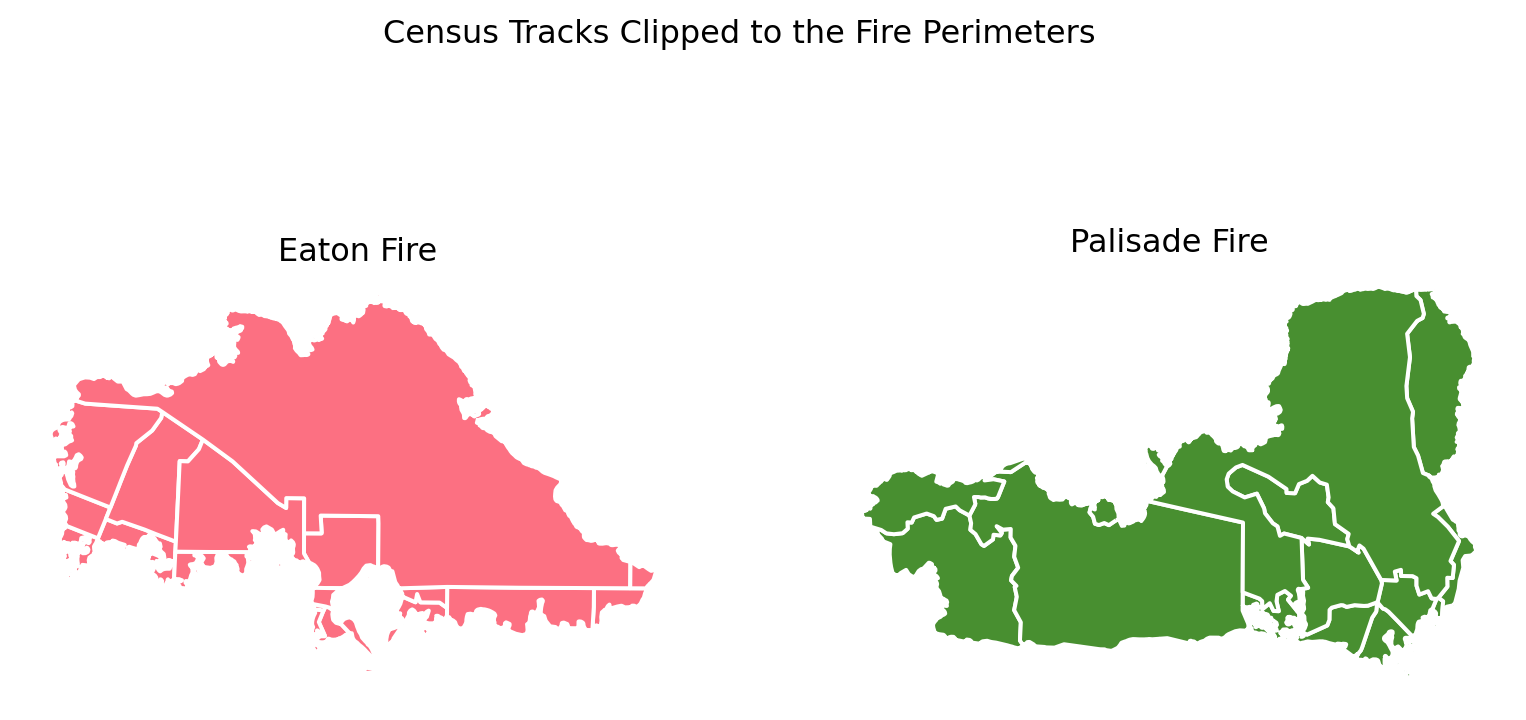
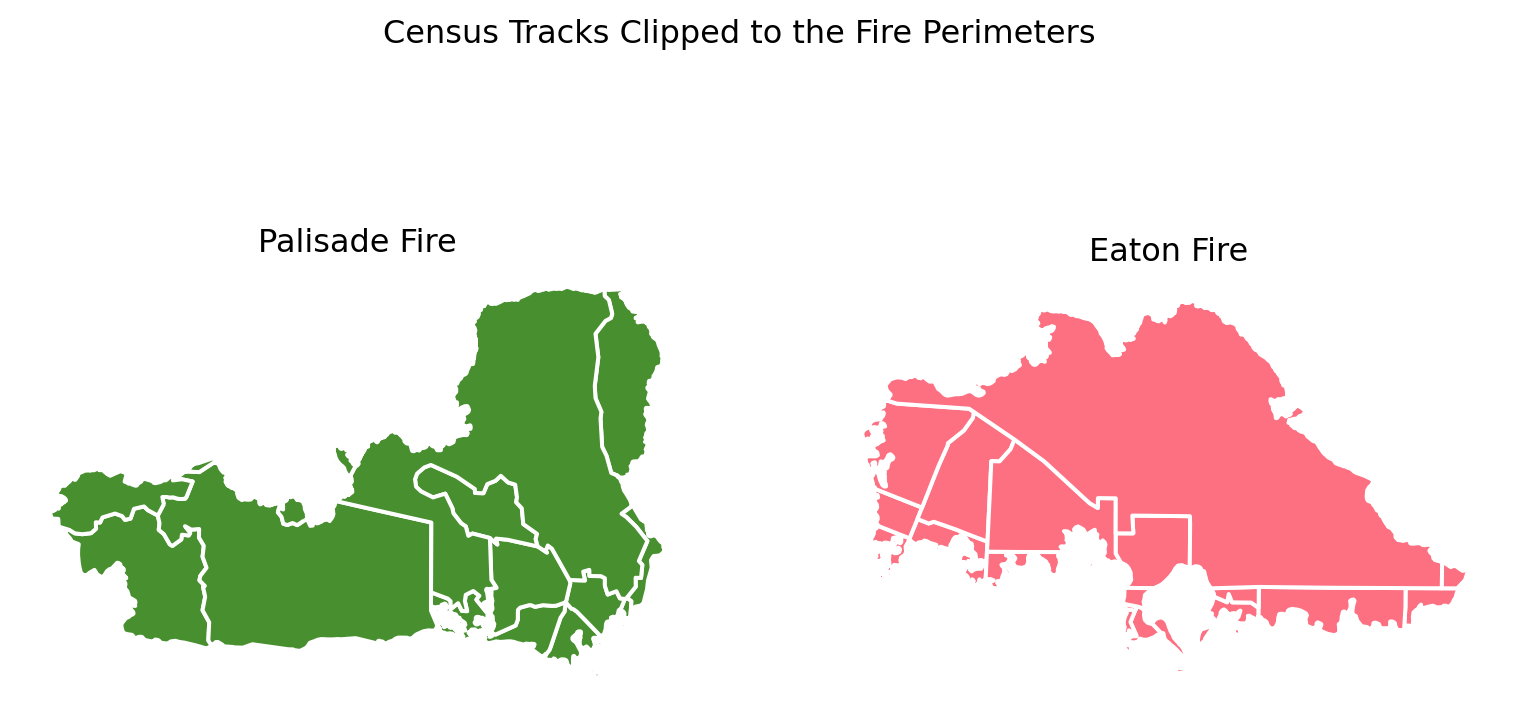
Built site for gh-pages

diff --git a/Posts/analyzing_LA_fire_scars/index.html b/Posts/analyzing_LA_fire_scars/index.html
@@ -266,7 +266,7 @@ pre > code.sourceCode > span > a:first-child::before { text-decoration: underlin
 <section id="inital-steps" class="level2">
 <h2 class="anchored" data-anchor-id="inital-steps">Inital Steps</h2>
 <p>First, we must <em>load all necessary libraries</em>!</p>
-<div id="1e715215" class="cell" data-execution_count="1">
+<div id="db068f6b" class="cell" data-execution_count="1">
 <details class="code-fold">
 <summary>Code</summary>
 <div class="code-copy-outer-scaffold"><div class="sourceCode cell-code" id="cb1"><pre class="sourceCode python code-with-copy"><code class="sourceCode python"><span id="cb1-1"><a href="#cb1-1" aria-hidden="true" tabindex="-1"></a><span class="co"># Used to import data easier</span></span>
@@ -289,7 +289,7 @@ pre > code.sourceCode > span > a:first-child::before { text-decoration: underlin
 </div>
 <p>The important libraries are the <code>geopandas</code> and <code>xarrary</code>. The <code>geopandas</code> package is useful when dealing with vector data which is point, lines, and polygons. The fire perimeters and EJI dataframes are polygons. Therefore, we will be using <code>geopandas</code> for the EJI and borders. Whereas, the <code>xarrary</code> package is useful when working with raster data, such as the Landsat data.</p>
 <p>Secondly, we must <em>load in</em> the borders, EJI, and Landsat data by using the <code>geopandas</code>, <code>xarrary</code>, and <code>os</code> packages.</p>
-<div id="26f7cccc" class="cell" data-execution_count="2">
+<div id="aea05b19" class="cell" data-execution_count="2">
 <details class="code-fold">
 <summary>Code</summary>
 <div class="code-copy-outer-scaffold"><div class="sourceCode cell-code" id="cb2"><pre class="sourceCode python code-with-copy"><code class="sourceCode python"><span id="cb2-1"><a href="#cb2-1" aria-hidden="true" tabindex="-1"></a><span class="co"># Importing fire border data </span></span>
@@ -307,7 +307,7 @@ pre > code.sourceCode > span > a:first-child::before { text-decoration: underlin
 <span id="cb2-13"><a href="#cb2-13" aria-hidden="true" tabindex="-1"></a>landsat <span class="op">=</span> xr.open_dataset(os.path.join(<span class="st">'data'</span>, <span class="st">'landsat8-2025-02-23-palisades-eaton.nc'</span>))</span></code></pre></div><button title="Copy to Clipboard" class="code-copy-button"><i class="bi"></i></button></div>
 </details>
 </div>
-<div id="75557f76" class="cell" data-execution_count="3">
+<div id="a4ceee07" class="cell" data-execution_count="3">
 <details class="code-fold">
 <summary>Code</summary>
 <div class="code-copy-outer-scaffold"><div class="sourceCode cell-code" id="cb3"><pre class="sourceCode python code-with-copy"><code class="sourceCode python"><span id="cb3-1"><a href="#cb3-1" aria-hidden="true" tabindex="-1"></a><span class="co"># Image of Fires </span></span>
@@ -335,7 +335,7 @@ pre > code.sourceCode > span > a:first-child::before { text-decoration: underlin
 <p>Once the data is loaded, we need to examine each dataset.</p>
 <p>The function <code>.info</code> provides good information of the dataframes’ column names and data types. With this function, we notice there are 5 columns in the fire border data set, with the final column being the vector geometry. We can examine the geometry of each fire with <code>.plot</code>.</p>
 <p>Finally, it is <em>always</em> important to know the geospatial data’s <strong>coordinate reference systems</strong> (CRS). The CRS defines how the geospatial data is located and plotted. There are 2 CRS types: geographic (how the data is plotted on the 3D globe) and projected (how the data is plotted on a 2D map). It is important to use the correct CRS for your data and intended goal. Additionally, when merging or plotting geospatial data together, the datasets must be in the same CRS.</p>
-<div id="a96a29b5" class="cell" data-execution_count="4">
+<div id="962c643f" class="cell" data-execution_count="4">
 <div class="code-copy-outer-scaffold"><div class="sourceCode cell-code" id="cb4"><pre class="sourceCode python code-with-copy"><code class="sourceCode python"><span id="cb4-1"><a href="#cb4-1" aria-hidden="true" tabindex="-1"></a><span class="co"># Border data exploration </span></span>
 <span id="cb4-2"><a href="#cb4-2" aria-hidden="true" tabindex="-1"></a><span class="co"># .info: Column names, NA counts, and types</span></span>
 <span id="cb4-3"><a href="#cb4-3" aria-hidden="true" tabindex="-1"></a><span class="bu">print</span>(eaton.info()) </span>
@@ -393,7 +393,7 @@ The CRS for the palisades fire perimeter is EPSG:3857, and is the CRS projected?
 </div>
 </div>
 </div>
-<div id="4144964d" class="cell" data-execution_count="5">
+<div id="1d6748e7" class="cell" data-execution_count="5">
 <div class="code-copy-outer-scaffold"><div class="sourceCode cell-code" id="cb6"><pre class="sourceCode python code-with-copy"><code class="sourceCode python"><span id="cb6-1"><a href="#cb6-1" aria-hidden="true" tabindex="-1"></a><span class="co"># EJI exploration </span></span>
 <span id="cb6-2"><a href="#cb6-2" aria-hidden="true" tabindex="-1"></a><span class="co"># .info: Column names, NA counts, and types</span></span>
 <span id="cb6-3"><a href="#cb6-3" aria-hidden="true" tabindex="-1"></a><span class="bu">print</span>(cali.info()) </span>
@@ -427,7 +427,7 @@ The CRS for the Califoria's EJI data is PROJCS["USA_Contiguous_Albers_Equal_Area
 <li><p><em>Attributes:</em> The units and other describing factors (like sample ID)</p></li>
 </ol>
 <p>We can understand the Landsat’s variables, dimension, and CRS with <code>.var</code>, <code>.coord</code>, <code>dims</code>, <code>.rio.crs</code>.</p>
-<div id="39ae7840" class="cell" data-execution_count="6">
+<div id="2743f037" class="cell" data-execution_count="6">
 <div class="code-copy-outer-scaffold"><div class="sourceCode cell-code" id="cb8"><pre class="sourceCode python code-with-copy"><code class="sourceCode python"><span id="cb8-1"><a href="#cb8-1" aria-hidden="true" tabindex="-1"></a><span class="co"># Preliminary Raster Landsat data exploration  </span></span>
 <span id="cb8-2"><a href="#cb8-2" aria-hidden="true" tabindex="-1"></a><span class="bu">print</span>(<span class="ss">f"THE COORDINATES ARE: </span><span class="sc">{</span>landsat<span class="sc">.</span>coords<span class="sc">}</span><span class="ss">"</span>)</span>
 <span id="cb8-3"><a href="#cb8-3" aria-hidden="true" tabindex="-1"></a><span class="bu">print</span>(<span class="ss">f"THE VARIABLES ARE: </span><span class="sc">{</span>landsat<span class="sc">.</span>var<span class="sc">}</span><span class="ss">"</span>)</span>
@@ -463,7 +463,7 @@ THE CRS IS: None</code></pre>
 <h3 class="anchored" data-anchor-id="a-restoring-geospatial-information">a) Restoring Geospatial Information</h3>
 <p><em>PROBLEM!</em> Notice, the Landsat’s CRS reads ‘None’!</p>
 <p>This is because the raster’s CRS is located in another attribute called ‘crs_wkt’. Therefore, we must retrieve the CRS by using <code>.spatial_ref</code> (which refers to the Spatial Reference System). Then we will use <code>.write_crs</code> to recover the spatial properties of the geospatial dataset.</p>
-<div id="8436abda" class="cell" data-execution_count="7">
+<div id="1f28ed38" class="cell" data-execution_count="7">
 <div class="code-copy-outer-scaffold"><div class="sourceCode cell-code" id="cb10"><pre class="sourceCode python code-with-copy"><code class="sourceCode python"><span id="cb10-1"><a href="#cb10-1" aria-hidden="true" tabindex="-1"></a><span class="co"># Find the CRS within the 'crs_wkt' attribute </span></span>
 <span id="cb10-2"><a href="#cb10-2" aria-hidden="true" tabindex="-1"></a>landsat_crs <span class="op">=</span> landsat.spatial_ref.crs_wkt</span>
 <span id="cb10-3"><a href="#cb10-3" aria-hidden="true" tabindex="-1"></a></span>
@@ -480,7 +480,7 @@ THE CRS IS: None</code></pre>
 <section id="b-coordindate-refereces-systems" class="level3">
 <h3 class="anchored" data-anchor-id="b-coordindate-refereces-systems">b) Coordindate Refereces Systems</h3>
 <p>As stated before, when plotting or merging geospatial dataframes together, it is imparative they have the same CRS. Therefore, we need to check if all datasets’ CRSs match. If the CRS are not the same, we need to transform them.</p>
-<div id="7c01f9a7" class="cell" data-execution_count="8">
+<div id="a4991faa" class="cell" data-execution_count="8">
 <details class="code-fold">
 <summary>Code</summary>
 <div class="code-copy-outer-scaffold"><div class="sourceCode cell-code" id="cb12"><pre class="sourceCode python code-with-copy"><code class="sourceCode python"><span id="cb12-1"><a href="#cb12-1" aria-hidden="true" tabindex="-1"></a><span class="co"># Check is CRSs match  </span></span>
@@ -497,13 +497,13 @@ Does the Cali EJI and the Landsat raster CRSs match? False</code></pre>
 </div>
 </div>
 <p><em>PROBLEM!</em> The perimeter, Landsat, and EJI CRSs do NOT match. Thus, we must transform them to match using <code>to_crs</code>.</p>
-<div id="e1ff4d40" class="cell" data-execution_count="9">
+<div id="36c6d8fc" class="cell" data-execution_count="9">
 <div class="code-copy-outer-scaffold"><div class="sourceCode cell-code" id="cb14"><pre class="sourceCode python code-with-copy"><code class="sourceCode python"><span id="cb14-1"><a href="#cb14-1" aria-hidden="true" tabindex="-1"></a><span class="co"># Transform all data sets to match the Landsat's CRS   </span></span>
 <span id="cb14-2"><a href="#cb14-2" aria-hidden="true" tabindex="-1"></a>eaton.to_crs(landsat.rio.crs, inplace <span class="op">=</span> <span class="va">True</span>)</span>
 <span id="cb14-3"><a href="#cb14-3" aria-hidden="true" tabindex="-1"></a>pal.to_crs(landsat.rio.crs, inplace <span class="op">=</span> <span class="va">True</span>)</span>
 <span id="cb14-4"><a href="#cb14-4" aria-hidden="true" tabindex="-1"></a>cali.to_crs(landsat.rio.crs, inplace <span class="op">=</span> <span class="va">True</span>)</span></code></pre></div><button title="Copy to Clipboard" class="code-copy-button"><i class="bi"></i></button></div>
 </div>
-<div id="83d04be7" class="cell" data-execution_count="10">
+<div id="a8b8744e" class="cell" data-execution_count="10">
 <details class="code-fold">
 <summary>Code</summary>
 <div class="code-copy-outer-scaffold"><div class="sourceCode cell-code" id="cb15"><pre class="sourceCode python code-with-copy"><code class="sourceCode python"><span id="cb15-1"><a href="#cb15-1" aria-hidden="true" tabindex="-1"></a><span class="co"># Check to see if CRS are fixed   </span></span>
@@ -525,7 +525,7 @@ Does the Cali EJI and the Landsat raster CRSs match? True</code></pre>
 <p>True color imagery will be used to visualize the Los Angeles landscape!</p>
 <p>When mapping, there are 3 color channels: red, green, blue (RGB). If the red, green, and blue Landsat wavelengths are assigned to their proper channels, this is <strong>TRUE COLOR IMAGERY</strong>. True color imagery, in simple terms, is when the red wavelength is assigned to red channel, green wavelength is assigned to the green channel, and blue wavelength is assigned to the blue channel.</p>
 <p>To create the true-color imagery, we will select the ‘red’, ‘green’, and ‘blue’ bands (in that order) into the Landsat’s [red-channel, green-channel, and blue-channel]. Then, we convert the dataset (with multiple bands) into a single DataArray with <code>to_array()</code>. There are a couple spots with ‘NA’ values and extreme measurements (from cloud cover and/or shadows). The NAs and outliar values will cause the visualizion to fail, not showing the intended image. Filling the NA values with 0s, using <code>.fillna(0)</code>, ensures the RGB image will plot cleanly. The function <code>.plot.imshow()</code> is xarray’s plotting function. The addition of <code>robust = True</code> elimiates extreme outlairs, and thus scales the color range to be more representative of the data.</p>
-<div id="d3e5773c" class="cell" data-execution_count="11">
+<div id="63339120" class="cell" data-execution_count="11">
 <details class="code-fold">
 <summary>Code</summary>
 <div class="code-copy-outer-scaffold"><div class="sourceCode cell-code" id="cb17"><pre class="sourceCode python code-with-copy"><code class="sourceCode python"><span id="cb17-1"><a href="#cb17-1" aria-hidden="true" tabindex="-1"></a><span class="co"># Plot Landsat data with the red, green, blue wavelengths</span></span>
@@ -547,7 +547,7 @@ Does the Cali EJI and the Landsat raster CRSs match? True</code></pre>
 <h2 class="anchored" data-anchor-id="false-color-imagery">False Color Imagery</h2>
 <p>Conversely, <strong>FALSE COLOR IMAGERY</strong> is when the RGB channels are NOT assigned to the red, green, blue wavelengths. False color imagery uses the unique reflectance and absorbance properties of different wavelengths to enhance or isolate specific features that may be difficult to see in true color imagery.</p>
 <p>For instance, to examine the fire scars, we will assign the short-wave infrared wavelengths (‘swir22’) to the red channel, near-infrared wavelengths (‘nir08’) to the green channel, and red wavelength to the blue channel. Near infrared (NIR) wavelengths reflects healthy vegetation. Lower NIR measurements can show unhealthy plant-life conditions, such as drought stress or deforestation. Assigning the NIR to the green channel emphasizes the vegetation health. Hence, super green areas in this figure represent healthy plant-life. Short wave infrared (SWIR) wavelengths reflects fire and recently burned areas. By assigning SWIR to the red channel, the fire markings are highlighted with a red color, especially in contrast to the NIR (green channel). Thus, false color imagery is used to emphasizes the burn damages from the fires in comparison to the neighboring healthy vegetation.</p>
-<div id="e10cdb1a" class="cell" data-execution_count="12">
+<div id="782714fc" class="cell" data-execution_count="12">
 <details class="code-fold">
 <summary>Code</summary>
 <div class="code-copy-outer-scaffold"><div class="sourceCode cell-code" id="cb18"><pre class="sourceCode python code-with-copy"><code class="sourceCode python"><span id="cb18-1"><a href="#cb18-1" aria-hidden="true" tabindex="-1"></a><span class="co"># Plotting Landsat data with the short-wave infrared (swir22), near-infrared, and red wavelengths </span></span>
@@ -568,7 +568,7 @@ Does the Cali EJI and the Landsat raster CRSs match? True</code></pre>
 <section id="all-together" class="level3">
 <h3 class="anchored" data-anchor-id="all-together">All together!</h3>
 <p>To finalize the plot, we will outline the fire scares shown in the false color imagery map with the perimeter dataframes. Additionally, adding legends, text, a title, and a scalebar are important factors in creating a professional map.</p>
-<div id="bf77db75" class="cell" data-execution_count="13">
+<div id="98db4be6" class="cell" data-execution_count="13">
 <details class="code-fold">
 <summary>Code</summary>
 <div class="code-copy-outer-scaffold"><div class="sourceCode cell-code" id="cb19"><pre class="sourceCode python code-with-copy"><code class="sourceCode python"><span id="cb19-1"><a href="#cb19-1" aria-hidden="true" tabindex="-1"></a><span class="co"># Create an empty plot </span></span>
@@ -637,7 +637,7 @@ Does the Cali EJI and the Landsat raster CRSs match? True</code></pre>
 <section id="prelimary-exploration" class="level3">
 <h3 class="anchored" data-anchor-id="prelimary-exploration">Prelimary Exploration</h3>
 <p>To examine California’s census tracks (especially the ones that intersect with the fire perimeters), we will create a map! In order to do this, we will select and filter for all GEOIDs that cut across the Eaton and Paslisade Fires, and highlight these when plotting California’s EJI data.</p>
-<div id="b578d7ab" class="cell" data-execution_count="14">
+<div id="573ed143" class="cell" data-execution_count="14">
 <details class="code-fold">
 <summary>Code</summary>
 <div class="code-copy-outer-scaffold"><div class="sourceCode cell-code" id="cb20"><pre class="sourceCode python code-with-copy"><code class="sourceCode python"><span id="cb20-1"><a href="#cb20-1" aria-hidden="true" tabindex="-1"></a><span class="co"># Select GEOID within the fires perimeters </span></span>
@@ -679,29 +679,31 @@ Does the Cali EJI and the Landsat raster CRSs match? True</code></pre>
 </div>
 </div>
 <p>The figure above shows the intersecting census tracks. To get better view of these ‘blobs’, we can use <code>.sjoin()</code> to select for all CTs that traverse the fires.</p>
-<div id="e4344b42" class="cell" data-execution_count="15">
+<div id="6e45951a" class="cell" data-execution_count="15">
 <div class="code-copy-outer-scaffold"><div class="sourceCode cell-code" id="cb21"><pre class="sourceCode python code-with-copy"><code class="sourceCode python"><span id="cb21-1"><a href="#cb21-1" aria-hidden="true" tabindex="-1"></a><span class="co"># JOIN EJI census tracks with border data </span></span>
 <span id="cb21-2"><a href="#cb21-2" aria-hidden="true" tabindex="-1"></a>eaton_join <span class="op">=</span> gpd.sjoin(cali, eaton)</span>
 <span id="cb21-3"><a href="#cb21-3" aria-hidden="true" tabindex="-1"></a>pal_join <span class="op">=</span> gpd.sjoin(cali, pal)</span></code></pre></div><button title="Copy to Clipboard" class="code-copy-button"><i class="bi"></i></button></div>
 </div>
-<div id="4eeaf22b" class="cell" data-execution_count="16">
+<div id="c63ac47a" class="cell" data-execution_count="16">
 <details class="code-fold">
 <summary>Code</summary>
 <div class="code-copy-outer-scaffold"><div class="sourceCode cell-code" id="cb22"><pre class="sourceCode python code-with-copy"><code class="sourceCode python"><span id="cb22-1"><a href="#cb22-1" aria-hidden="true" tabindex="-1"></a><span class="co"># Plot joined df </span></span>
 <span id="cb22-2"><a href="#cb22-2" aria-hidden="true" tabindex="-1"></a>fig, (ax1, ax2) <span class="op">=</span> plt.subplots(<span class="dv">1</span>, <span class="dv">2</span>, figsize<span class="op">=</span>(<span class="dv">10</span>, <span class="dv">5</span>))</span>
 <span id="cb22-3"><a href="#cb22-3" aria-hidden="true" tabindex="-1"></a></span>
-<span id="cb22-4"><a href="#cb22-4" aria-hidden="true" tabindex="-1"></a>eaton_join.plot(ax <span class="op">=</span> ax1, facecolor<span class="op">=</span> <span class="st">'#fc7082'</span>, edgecolor<span class="op">=</span><span class="st">'white'</span>, linewidth<span class="op">=</span><span class="fl">1.5</span>)</span>
-<span id="cb22-5"><a href="#cb22-5" aria-hidden="true" tabindex="-1"></a>pal_join.plot(ax <span class="op">=</span> ax2, facecolor<span class="op">=</span> <span class="st">'#488f30'</span>, edgecolor<span class="op">=</span><span class="st">'white'</span>, linewidth<span class="op">=</span><span class="fl">1.5</span>)</span>
+<span id="cb22-4"><a href="#cb22-4" aria-hidden="true" tabindex="-1"></a>pal_join.plot(ax <span class="op">=</span> ax1, facecolor<span class="op">=</span> <span class="st">'#488f30'</span>, edgecolor<span class="op">=</span><span class="st">'white'</span>, linewidth<span class="op">=</span><span class="fl">1.5</span>)</span>
+<span id="cb22-5"><a href="#cb22-5" aria-hidden="true" tabindex="-1"></a>eaton_join.plot(ax <span class="op">=</span> ax2, facecolor<span class="op">=</span> <span class="st">'#fc7082'</span>, edgecolor<span class="op">=</span><span class="st">'white'</span>, linewidth<span class="op">=</span><span class="fl">1.5</span>)</span>
 <span id="cb22-6"><a href="#cb22-6" aria-hidden="true" tabindex="-1"></a></span>
-<span id="cb22-7"><a href="#cb22-7" aria-hidden="true" tabindex="-1"></a>fig.suptitle(<span class="st">'Census Tracks Intersecting the Fire Perimeters'</span>)</span>
-<span id="cb22-8"><a href="#cb22-8" aria-hidden="true" tabindex="-1"></a>ax1.set_title(<span class="st">"Eaton Fire"</span>)</span>
-<span id="cb22-9"><a href="#cb22-9" aria-hidden="true" tabindex="-1"></a>ax2.set_title(<span class="st">"Palisade Fire"</span>)</span>
-<span id="cb22-10"><a href="#cb22-10" aria-hidden="true" tabindex="-1"></a></span>
+<span id="cb22-7"><a href="#cb22-7" aria-hidden="true" tabindex="-1"></a></span>
+<span id="cb22-8"><a href="#cb22-8" aria-hidden="true" tabindex="-1"></a>fig.suptitle(<span class="st">'Census Tracks Intersecting the Fire Perimeters'</span>)</span>
+<span id="cb22-9"><a href="#cb22-9" aria-hidden="true" tabindex="-1"></a>ax1.set_title(<span class="st">"Palisade Fire"</span>)</span>
+<span id="cb22-10"><a href="#cb22-10" aria-hidden="true" tabindex="-1"></a>ax2.set_title(<span class="st">"Eaton Fire"</span>)</span>
 <span id="cb22-11"><a href="#cb22-11" aria-hidden="true" tabindex="-1"></a></span>
-<span id="cb22-12"><a href="#cb22-12" aria-hidden="true" tabindex="-1"></a>ax1.axis(<span class="st">'off'</span>)</span>
-<span id="cb22-13"><a href="#cb22-13" aria-hidden="true" tabindex="-1"></a>ax2.axis(<span class="st">'off'</span>)</span>
-<span id="cb22-14"><a href="#cb22-14" aria-hidden="true" tabindex="-1"></a></span>
-<span id="cb22-15"><a href="#cb22-15" aria-hidden="true" tabindex="-1"></a>plt.show()</span></code></pre></div><button title="Copy to Clipboard" class="code-copy-button"><i class="bi"></i></button></div>
+<span id="cb22-12"><a href="#cb22-12" aria-hidden="true" tabindex="-1"></a></span>
+<span id="cb22-13"><a href="#cb22-13" aria-hidden="true" tabindex="-1"></a></span>
+<span id="cb22-14"><a href="#cb22-14" aria-hidden="true" tabindex="-1"></a>ax1.axis(<span class="st">'off'</span>)</span>
+<span id="cb22-15"><a href="#cb22-15" aria-hidden="true" tabindex="-1"></a>ax2.axis(<span class="st">'off'</span>)</span>
+<span id="cb22-16"><a href="#cb22-16" aria-hidden="true" tabindex="-1"></a></span>
+<span id="cb22-17"><a href="#cb22-17" aria-hidden="true" tabindex="-1"></a>plt.show()</span></code></pre></div><button title="Copy to Clipboard" class="code-copy-button"><i class="bi"></i></button></div>
 </details>
 <div class="cell-output cell-output-display">
 <div>
@@ -715,29 +717,30 @@ Does the Cali EJI and the Landsat raster CRSs match? True</code></pre>
 <section id="clip-census-tracks-with-fire-perimeters" class="level3">
 <h3 class="anchored" data-anchor-id="clip-census-tracks-with-fire-perimeters">Clip Census Tracks with Fire Perimeters</h3>
 <p>The <code>.clip()</code> function acts like a cookie cutter. We will use this function to ‘cookie-cutter’ out the exact fire perimeters from the census tracks.</p>
-<div id="fef9b5a6" class="cell" data-execution_count="17">
+<div id="810e4ebb" class="cell" data-execution_count="17">
 <div class="code-copy-outer-scaffold"><div class="sourceCode cell-code" id="cb23"><pre class="sourceCode python code-with-copy"><code class="sourceCode python"><span id="cb23-1"><a href="#cb23-1" aria-hidden="true" tabindex="-1"></a><span class="co"># CLIP EJI census tracks with border data </span></span>
 <span id="cb23-2"><a href="#cb23-2" aria-hidden="true" tabindex="-1"></a>eaton_clip <span class="op">=</span> gpd.clip(cali, eaton)</span>
 <span id="cb23-3"><a href="#cb23-3" aria-hidden="true" tabindex="-1"></a>pal_clip <span class="op">=</span> gpd.clip(cali, pal)</span></code></pre></div><button title="Copy to Clipboard" class="code-copy-button"><i class="bi"></i></button></div>
 </div>
-<div id="665f2fcf" class="cell" data-execution_count="18">
+<div id="df98ceb9" class="cell" data-execution_count="18">
 <details class="code-fold">
 <summary>Code</summary>
 <div class="code-copy-outer-scaffold"><div class="sourceCode cell-code" id="cb24"><pre class="sourceCode python code-with-copy"><code class="sourceCode python"><span id="cb24-1"><a href="#cb24-1" aria-hidden="true" tabindex="-1"></a><span class="co"># Plot clipped dfs </span></span>
 <span id="cb24-2"><a href="#cb24-2" aria-hidden="true" tabindex="-1"></a>fig, (ax1, ax2) <span class="op">=</span> plt.subplots(<span class="dv">1</span>, <span class="dv">2</span>, figsize<span class="op">=</span>(<span class="dv">10</span>, <span class="dv">5</span>))</span>
 <span id="cb24-3"><a href="#cb24-3" aria-hidden="true" tabindex="-1"></a></span>
-<span id="cb24-4"><a href="#cb24-4" aria-hidden="true" tabindex="-1"></a>eaton_clip.plot(ax <span class="op">=</span> ax1, facecolor<span class="op">=</span> <span class="st">'#fc7082'</span>, edgecolor<span class="op">=</span><span class="st">'white'</span>, linewidth<span class="op">=</span><span class="fl">1.5</span>)</span>
-<span id="cb24-5"><a href="#cb24-5" aria-hidden="true" tabindex="-1"></a>pal_clip.plot(ax <span class="op">=</span> ax2, facecolor<span class="op">=</span> <span class="st">'#488f30'</span>, edgecolor<span class="op">=</span><span class="st">'white'</span>, linewidth<span class="op">=</span><span class="fl">1.5</span>)</span>
+<span id="cb24-4"><a href="#cb24-4" aria-hidden="true" tabindex="-1"></a>pal_clip.plot(ax <span class="op">=</span> ax1, facecolor<span class="op">=</span> <span class="st">'#488f30'</span>, edgecolor<span class="op">=</span><span class="st">'white'</span>, linewidth<span class="op">=</span><span class="fl">1.5</span>)</span>
+<span id="cb24-5"><a href="#cb24-5" aria-hidden="true" tabindex="-1"></a>eaton_clip.plot(ax <span class="op">=</span> ax2, facecolor<span class="op">=</span> <span class="st">'#fc7082'</span>, edgecolor<span class="op">=</span><span class="st">'white'</span>, linewidth<span class="op">=</span><span class="fl">1.5</span>)</span>
 <span id="cb24-6"><a href="#cb24-6" aria-hidden="true" tabindex="-1"></a></span>
-<span id="cb24-7"><a href="#cb24-7" aria-hidden="true" tabindex="-1"></a>fig.suptitle(<span class="st">'Census Tracks Clipped to the Fire Perimeters'</span>)</span>
-<span id="cb24-8"><a href="#cb24-8" aria-hidden="true" tabindex="-1"></a>ax1.set_title(<span class="st">"Eaton Fire"</span>)</span>
-<span id="cb24-9"><a href="#cb24-9" aria-hidden="true" tabindex="-1"></a>ax2.set_title(<span class="st">"Palisade Fire"</span>)</span>
-<span id="cb24-10"><a href="#cb24-10" aria-hidden="true" tabindex="-1"></a></span>
+<span id="cb24-7"><a href="#cb24-7" aria-hidden="true" tabindex="-1"></a></span>
+<span id="cb24-8"><a href="#cb24-8" aria-hidden="true" tabindex="-1"></a>fig.suptitle(<span class="st">'Census Tracks Clipped to the Fire Perimeters'</span>)</span>
+<span id="cb24-9"><a href="#cb24-9" aria-hidden="true" tabindex="-1"></a>ax1.set_title(<span class="st">"Palisade Fire"</span>)</span>
+<span id="cb24-10"><a href="#cb24-10" aria-hidden="true" tabindex="-1"></a>ax2.set_title(<span class="st">"Eaton Fire"</span>)</span>
 <span id="cb24-11"><a href="#cb24-11" aria-hidden="true" tabindex="-1"></a></span>
-<span id="cb24-12"><a href="#cb24-12" aria-hidden="true" tabindex="-1"></a>ax1.axis(<span class="st">'off'</span>)</span>
-<span id="cb24-13"><a href="#cb24-13" aria-hidden="true" tabindex="-1"></a>ax2.axis(<span class="st">'off'</span>)</span>
-<span id="cb24-14"><a href="#cb24-14" aria-hidden="true" tabindex="-1"></a></span>
-<span id="cb24-15"><a href="#cb24-15" aria-hidden="true" tabindex="-1"></a>plt.show()</span></code></pre></div><button title="Copy to Clipboard" class="code-copy-button"><i class="bi"></i></button></div>
+<span id="cb24-12"><a href="#cb24-12" aria-hidden="true" tabindex="-1"></a></span>
+<span id="cb24-13"><a href="#cb24-13" aria-hidden="true" tabindex="-1"></a>ax1.axis(<span class="st">'off'</span>)</span>
+<span id="cb24-14"><a href="#cb24-14" aria-hidden="true" tabindex="-1"></a>ax2.axis(<span class="st">'off'</span>)</span>
+<span id="cb24-15"><a href="#cb24-15" aria-hidden="true" tabindex="-1"></a></span>
+<span id="cb24-16"><a href="#cb24-16" aria-hidden="true" tabindex="-1"></a>plt.show()</span></code></pre></div><button title="Copy to Clipboard" class="code-copy-button"><i class="bi"></i></button></div>
 </details>
 <div class="cell-output cell-output-display">
 <div>
@@ -751,7 +754,7 @@ Does the Cali EJI and the Landsat raster CRSs match? True</code></pre>
 <section id="plot" class="level3">
 <h3 class="anchored" data-anchor-id="plot">Plot</h3>
 <p>To study the affected community, we will use the clipped dataframes and display the census tracks’ ‘E_UNINSUR’ measurements.</p>
-<div id="137786e0" class="cell" data-execution_count="19">
+<div id="0c9e1ac5" class="cell" data-execution_count="19">
 <details class="code-fold">
 <summary>Code</summary>
 <div class="code-copy-outer-scaffold"><div class="sourceCode cell-code" id="cb25"><pre class="sourceCode python code-with-copy"><code class="sourceCode python"><span id="cb25-1"><a href="#cb25-1" aria-hidden="true" tabindex="-1"></a>fig, (ax1, ax2) <span class="op">=</span> plt.subplots(<span class="dv">1</span>, <span class="dv">2</span>, figsize<span class="op">=</span>(<span class="dv">10</span>, <span class="dv">5</span>))</span>
@@ -903,7 +906,7 @@ Scars.”</span> December 4, 2025. <a href="https://https//meganhessel.github.io
     }
       var localhostRegex = new RegExp(/^(?:http|https):\/\/localhost\:?[0-9]*\//);
       var mailtoRegex = new RegExp(/^mailto:/);
-        var filterRegex = new RegExp('/' + window.location.host + '/');
+        var filterRegex = new RegExp("https:\/\/meganhessel\.github\.io\/");
       var isInternal = (href) => {
           return filterRegex.test(href) || localhostRegex.test(href) || mailtoRegex.test(href);
       }

diff --git a/posts.html b/posts.html
@@ -276,7 +276,7 @@ Dec 4, 2025
 </div>
 </div></a>
 </div>
-<div class="g-col-1" data-index="2" data-categories="TUVEUyUyQ1B5dGhvbiUyQ2RhdGEtdml6" data-listing-date-sort="1764835200000" data-listing-file-modified-sort="1765351412150" data-listing-date-modified-sort="NaN" data-listing-reading-time-sort="14" data-listing-word-count-sort="2738">
+<div class="g-col-1" data-index="2" data-categories="TUVEUyUyQ1B5dGhvbiUyQ2RhdGEtdml6" data-listing-date-sort="1764835200000" data-listing-file-modified-sort="1765351879453" data-listing-date-modified-sort="NaN" data-listing-reading-time-sort="14" data-listing-word-count-sort="2738">
 <a href="./Posts/analyzing_LA_fire_scars/index.html" class="quarto-grid-link">
 <div class="quarto-grid-item card h-100 card-left">
 <p class="card-img-top">
@@ -385,7 +385,7 @@ Dec 4, 2025
     }
       var localhostRegex = new RegExp(/^(?:http|https):\/\/localhost\:?[0-9]*\//);
       var mailtoRegex = new RegExp(/^mailto:/);
-        var filterRegex = new RegExp('/' + window.location.host + '/');
+        var filterRegex = new RegExp("https:\/\/meganhessel\.github\.io\/");
       var isInternal = (href) => {
           return filterRegex.test(href) || localhostRegex.test(href) || mailtoRegex.test(href);
       }

diff --git a/Posts/hur_ian_flooding/index.html b/Posts/hur_ian_flooding/index.html
@@ -1222,7 +1222,7 @@ December 4, 2025. <a href="https://https//meganhessel.github.io/Posts/hur_ian_fl
     }
       var localhostRegex = new RegExp(/^(?:http|https):\/\/localhost\:?[0-9]*\//);
       var mailtoRegex = new RegExp(/^mailto:/);
-        var filterRegex = new RegExp('/' + window.location.host + '/');
+        var filterRegex = new RegExp("https:\/\/meganhessel\.github\.io\/");
       var isInternal = (href) => {
           return filterRegex.test(href) || localhostRegex.test(href) || mailtoRegex.test(href);
       }

diff --git a/Posts/winter_storm_uri_TX_blackouts/index.html b/Posts/winter_storm_uri_TX_blackouts/index.html
@@ -1105,7 +1105,7 @@ Blackouts.”</span> December 4, 2025. <a href="https://https//meganhessel.githu
     }
       var localhostRegex = new RegExp(/^(?:http|https):\/\/localhost\:?[0-9]*\//);
       var mailtoRegex = new RegExp(/^mailto:/);
-        var filterRegex = new RegExp('/' + window.location.host + '/');
+        var filterRegex = new RegExp("https:\/\/meganhessel\.github\.io\/");
       var isInternal = (href) => {
           return filterRegex.test(href) || localhostRegex.test(href) || mailtoRegex.test(href);
       }

diff --git a/resources.html b/resources.html
@@ -245,7 +245,7 @@ this paragraph text is centered and orange
     }
       var localhostRegex = new RegExp(/^(?:http|https):\/\/localhost\:?[0-9]*\//);
       var mailtoRegex = new RegExp(/^mailto:/);
-        var filterRegex = new RegExp('/' + window.location.host + '/');
+        var filterRegex = new RegExp("https:\/\/meganhessel\.github\.io\/");
       var isInternal = (href) => {
           return filterRegex.test(href) || localhostRegex.test(href) || mailtoRegex.test(href);
       }

diff --git a/about.html b/about.html
@@ -243,7 +243,7 @@ ul.task-list li input[type="checkbox"] {
     }
       var localhostRegex = new RegExp(/^(?:http|https):\/\/localhost\:?[0-9]*\//);
       var mailtoRegex = new RegExp(/^mailto:/);
-        var filterRegex = new RegExp('/' + window.location.host + '/');
+        var filterRegex = new RegExp("https:\/\/meganhessel\.github\.io\/");
       var isInternal = (href) => {
           return filterRegex.test(href) || localhostRegex.test(href) || mailtoRegex.test(href);
       }

diff --git a/index.html b/index.html
@@ -223,7 +223,7 @@ ul.task-list li input[type="checkbox"] {
     }
       var localhostRegex = new RegExp(/^(?:http|https):\/\/localhost\:?[0-9]*\//);
       var mailtoRegex = new RegExp(/^mailto:/);
-        var filterRegex = new RegExp('/' + window.location.host + '/');
+        var filterRegex = new RegExp("https:\/\/meganhessel\.github\.io\/");
       var isInternal = (href) => {
           return filterRegex.test(href) || localhostRegex.test(href) || mailtoRegex.test(href);
       }
